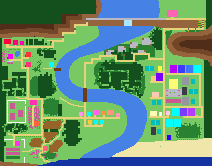
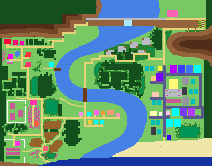
Add very tall grass, green plateaus and Valecrown streets
tools/beryl/tileimport.py adds outside metatiles to the four Kaldria
tilesets at shared ids: Emerald's long grass and Saffron's cobbles so far.
The first mountain level is now a grass plateau with a cliff rim, and
Valecrown's paths are streets. Two new paint colours: very tall grass and
city street.

Claude-Session: https://claude.ai/code/session_01CPXAVraXNv8NZzXt3sV7iL

diff --git a/tools/beryl/tileimport.py b/tools/beryl/tileimport.py
@@ -1,0 +1,136 @@
+"""Add outside metatiles (Emerald, other Kanto towns, Team Aqua's asset repo) to Kaldria's tilesets.
+
+    python3 tools/beryl/tileimport.py
+
+Every Kaldria tileset gets the same imported metatiles at the same ids, starting at IMPORT_BASE, so the
+map generator can use them in any town. Each import is drawn from its source, then its 8x8 tiles are
+recoloured onto the FireRed primary palettes (or onto a palette slot the tileset has free) and appended
+to the tileset's tiles. The tileset's own metatiles and tiles stay as they are: the tool cuts the tileset
+back to its original size first, so running it again gives the same result.
+"""
+import os, struct, sys
+from PIL import Image
+
+sys.path.insert(0, os.path.dirname(__file__))
+import render  # noqa: E402
+
+ROOT = render.ROOT
+PRIMARY = 'gTileset_General_Frlg'
+NPRI_TILES, NPRI_METAS, NPRI_PALS = 640, 640, 7
+MAX_SEC_TILES = 1024 - NPRI_TILES
+IMPORT_SLOT = 256                      # secondary metatile index of the first import
+IMPORT_BASE = NPRI_METAS + IMPORT_SLOT  # its metatile id (0x380)
+
+# Kaldria's outdoor tilesets: directory, original metatile count, original tile count, free palette slot
+TILESETS = {
+    'gTileset_Stillbrook': ('data/tilesets/secondary/stillbrook', 89, 80, None),
+    'gTileset_LavenderTown': ('data/tilesets/secondary/lavender_town_frlg', 218, 256, None),
+    'gTileset_VermilionCity': ('data/tilesets/secondary/vermilion_city_frlg', 168, 144, None),
+    'gTileset_CeladonCity': ('data/tilesets/secondary/celadon_city_frlg', 240, 256, 7),
+}
+
+# FireRed metatile attributes: behaviour (bits 0-8), terrain (9-13), encounter type (24-26), layer (29-30)
+LONG_GRASS_ATTR = 0x03 | (1 << 9) | (1 << 24)
+NORMAL_ATTR = 0
+
+# name: (source primary, source secondary, source metatile id, attributes, palette to borrow for the free slot)
+IMPORTS = [
+    ('long_grass', 'gTileset_General', 'gTileset_Fortree', 0x015, LONG_GRASS_ATTR, None),
+    ('street', PRIMARY, 'gTileset_SaffronCity', 0x2E9, NORMAL_ATTR, ('gTileset_SaffronCity', 10)),
+    ('street_light', PRIMARY, 'gTileset_SaffronCity', 0x2EC, NORMAL_ATTR, ('gTileset_SaffronCity', 10)),
+]
+IDS = {name: IMPORT_BASE + i for i, (name, *_) in enumerate(IMPORTS)}
+
+
+def write_pal(path, cols):
+    cols = list(cols) + [(0, 0, 0)] * (16 - len(cols))
+    open(path, 'w', newline='\r\n').write('JASC-PAL\n0100\n16\n' + ''.join(f'{r} {g} {b}\n' for r, g, b in cols))
+
+
+def nearest(c, pal):
+    """Index 1-15 of the colour in pal closest to c, and the squared error."""
+    best, err = 1, 1 << 30
+    for i in range(1, 16):
+        p = pal[i]
+        e = (p[0] - c[0]) ** 2 + (p[1] - c[1]) ** 2 + (p[2] - c[2]) ** 2
+        if e < err:
+            best, err = i, e
+    return best, err
+
+
+def quantize(px, pals):
+    """8x8 RGB pixels -> (palette number, 64 indices) using the palette that fits best."""
+    best = None
+    for n, pal in pals.items():
+        idx, total = [], 0
+        for c in px:
+            i, e = nearest(c, pal)
+            idx.append(i)
+            total += e
+        if best is None or total < best[0]:
+            best = (total, n, idx)
+    return best[1], best[2]
+
+
+def build(name):
+    d, nmeta, ntile, free = TILESETS[name]
+    d = os.path.join(ROOT, d)
+    ppals = render.load_tileset(PRIMARY)[1][:NPRI_PALS]
+    spal_paths = [os.path.join(d, 'palettes', f'{i:02}.pal') for i in range(16)]
+    spals = [render.read_pal(p) for p in spal_paths]
+    pals = {n: ppals[n] for n in range(NPRI_PALS)}
+    # the free palette slot takes the colours the imports need, borrowed whole from their source
+    borrowed = {src for *_, src in IMPORTS if src}
+    assert len(borrowed) <= 1, 'one borrowed palette per tileset for now'
+    if free is not None and borrowed:
+        src_set, src_pal = borrowed.pop()
+        cols = render.load_tileset(src_set)[1][src_pal]
+        write_pal(spal_paths[free], cols)
+        pals[free] = cols
+
+    img = Image.open(os.path.join(d, 'tiles.png'))
+    w = img.width
+    flat = list(img.getdata())
+    tiles = [[flat[((t // (w // 8)) * 8 + y) * w + (t % (w // 8)) * 8 + x] % 16 for y in range(8) for x in range(8)]
+             for t in range(ntile)]
+    raw = open(os.path.join(d, 'metatiles.bin'), 'rb').read()[:nmeta * 16]
+    attrs = open(os.path.join(d, 'metatile_attributes.bin'), 'rb').read()[:nmeta * 4]
+    raw += b'\0' * 16 * (IMPORT_SLOT - nmeta)
+    attrs += b'\0' * 4 * (IMPORT_SLOT - nmeta)
+    seen = {}
+    for iname, sp, ss, mid, attr, borrow in IMPORTS:
+        im = render.metatile_image(sp, ss, mid).convert('RGB')
+        use = {n: p for n, p in pals.items() if borrow is None or n == free} if (borrow and free is not None) else \
+            {n: p for n, p in pals.items() if n < NPRI_PALS}
+        entries = []
+        for q in range(4):
+            ox, oy = q % 2 * 8, q // 2 * 8
+            px = [im.getpixel((ox + x, oy + y)) for y in range(8) for x in range(8)]
+            pal, idx = quantize(px, use)
+            key = tuple(idx)
+            if key not in seen:
+                seen[key] = len(tiles)
+                tiles.append(idx)
+            entries.append((NPRI_TILES + seen[key]) | (pal << 12))
+        raw += struct.pack('<8H', *entries, 0, 0, 0, 0)
+        attrs += struct.pack('<I', attr)
+    assert len(tiles) <= MAX_SEC_TILES, f'{name}: {len(tiles)} tiles, the limit is {MAX_SEC_TILES}'
+    rows = (len(tiles) + 15) // 16
+    out = Image.new('P', (128, rows * 8))
+    out.putpalette(img.getpalette())
+    data = [0] * (128 * rows * 8)
+    for t, tile in enumerate(tiles):
+        tx, ty = t % 16, t // 16
+        for y in range(8):
+            for x in range(8):
+                data[(ty * 8 + y) * 128 + tx * 8 + x] = tile[y * 8 + x]
+    out.putdata(data)
+    out.save(os.path.join(d, 'tiles.png'))
+    open(os.path.join(d, 'metatiles.bin'), 'wb').write(raw)
+    open(os.path.join(d, 'metatile_attributes.bin'), 'wb').write(attrs)
+    return len(tiles) - ntile
+
+
+if __name__ == '__main__':
+    for n in TILESETS:
+        print(f'{n}: {len(IMPORTS)} metatiles, {build(n)} new tiles')

diff --git a/tools/beryl/mapgen.py b/tools/beryl/mapgen.py
@@ -125,8 +125,17 @@ def learned():
     return out, bitmode
 
 
+@lru_cache(None)
+def sandy_rocks():
+    """Cliff pieces drawn over sand: Kaldria's cliffs stand on grass, so these are left out."""
+    metas = render.load_tileset(PRIMARY)[2]
+    return frozenset(m for m in ROCK_IDS if any(v >> 12 == 5 for v in metas[m][:4]))
+
+
 def autotile(cls, mask, fallback):
     table = learned()[0][cls]
+    if cls == 'rock':
+        table = {m: v for m, v in table.items() if v not in sandy_rocks()}
     if mask in table:
         return table[mask]
     # nearest known mask by differing bits, preferring the orthogonal ones
@@ -207,6 +216,12 @@ TREE_END, TREE_END_OPEN = (0x024, 0x025), (0x026, 0x027)
 CANOPY, CANOPY_TALL = (0x00E, 0x00F), (0x00B, 0x00C)
 
 
+# metatiles tools/beryl/tileimport.py adds to every Kaldria tileset, at the same ids
+from tileimport import IDS as IMPORTED  # noqa: E402
+# imports that look the same in every tileset, so they may show across a map edge
+SHARED_IMPORTS = {IMPORTED['long_grass']}
+
+
 def grass(x, y):
     return GRASS4[y & 1][x & 1]
 
@@ -229,9 +244,18 @@ class MapArt:
             return self.chars[y][x]
         return None
 
+    def green_tops(self):
+        """The first mountain level is a grass plateau: only its rim stays cliff, the inside becomes grass."""
+        rock = ('^', 'M', 'N', 'C', 'S', 'W')
+        inner = [(x, y) for y in range(self.h) for x in range(self.w) if self.chars[y][x] == '^' and
+                 all(self.c(x + dx, y + dy) in rock + (None,) for dx, dy in N8)]
+        for x, y in inner:
+            self.chars[y][x] = '.'
+
     def build(self):
         w, h = self.w, self.h
         bits = learned()[1]
+        self.green_tops()
         out = [blk(grass(i % w, i // w)) for i in range(w * h)]
         put = lambda x, y, v: out.__setitem__(y * w + x, v)
         # plain ground
@@ -246,13 +270,17 @@ class MapArt:
                     put(x, y, blk(SIGN, 1, 0))
                 elif ch == 'b':
                     put(x, y, blk(SAND))
+                elif ch == 'V':
+                    put(x, y, blk(IMPORTED['long_grass']))
+                elif ch == 'K':
+                    put(x, y, blk(IMPORTED['street']))
         # trees on the 2x2 grid; out-of-map counts as forest
         def tree(cx, cy):
             if cx < 0 or cy < 0 or cx * 2 >= w or cy * 2 >= h:
                 return True
             cell = [self.c(cx * 2 + i, cy * 2 + j) for i in range(2) for j in range(2)]
             # a tree needs its whole 2x2 cell: a path, cliff, water or the like in it wins
-            return 'T' in cell and all(ch in (None, 'T', '.', ',', '*') for ch in cell)
+            return 'T' in cell and all(ch in (None, 'T', '.', ',', '*', 'V') for ch in cell)
         for cy in range((h + 1) // 2):
             for cx in range((w + 1) // 2):
                 if not (cx * 2 < w and cy * 2 < h and tree(cx, cy)):

diff --git a/tools/beryl/canvas.py b/tools/beryl/canvas.py
@@ -120,7 +120,7 @@ class Canvas(Grid):
         for dx, dy in ((0, -1), (0, 1), (-1, 0), (1, 0)):
             v = self.get(x + dx, y + dy)
             if v is not None and v not in member:
-                return v if v in '.,*=bp:' else '.'
+                return v if v in '.,*=bp:VK' else '.'
         return '.'
 
     # ---------------------------------------------------------------- buildings
@@ -210,7 +210,7 @@ class Canvas(Grid):
                     if src is None:
                         if inside and self.g[y][x] != 'T':
                             bare.append((x, y))
-                    elif (b[y * self.w + x] & 0x3FF) >= NPRI and src.secondary != r.secondary and \
+                    elif (b[y * self.w + x] & 0x3FF) >= NPRI and (b[y * self.w + x] & 0x3FF) not in mapgen.SHARED_IMPORTS and src.secondary != r.secondary and \
                             mapgen.SAME_TILES.get(src.secondary, src.secondary) != mapgen.SAME_TILES.get(r.secondary, r.secondary):
                         wrong.append((x, y))
             if wrong:

diff --git a/tools/beryl/paint.py b/tools/beryl/paint.py
@@ -20,6 +20,7 @@ KEY = os.path.join(HERE, 'kaldria_south_key.json')
 COLOURS = {
     '.': ((120, 200, 100), 'grass'),
     ',': ((40, 130, 50), 'tall grass (wild POKéMON)'),
+    'V': ((0, 150, 90), 'very tall grass (wild POKéMON, you wade through it)'),
     '*': ((200, 90, 150), 'flowers'),
     'T': ((20, 80, 30), 'trees'),
     '^': ((150, 100, 60), 'mountain / cliff, level 1'),
@@ -29,6 +30,7 @@ COLOURS = {
     '≈': ((20, 50, 160), 'sea water'),
     '=': ((230, 210, 120), 'path'),
     'p': ((185, 185, 195), 'paving'),
+    'K': ((90, 90, 140), 'city street (Valecrown)'),
     'b': ((240, 230, 170), 'sand'),
     ':': ((150, 100, 40), 'tilled soil'),
     'C': ((30, 20, 20), 'cave entrance (in a cliff)'),
@@ -334,7 +336,7 @@ def check_people(c, towns):
                 taken.add((wx, wy))
 
 
-WALK = '.,*=pb:'
+WALK = '.,*=pb:VK'
 
 
 def free_spot(c, t, x, y, inside, taken):

diff --git a/docs/beryl/ASSETS.md b/docs/beryl/ASSETS.md
@@ -11,5 +11,18 @@ actually use get copied into the game, each with its credit added to the list be
 Most of its tilesets are in the Emerald format (16-bit metatile attributes, 512-metatile primary), so they
 need converting before they work with the FireRed layouts used by Kaldria.
 
+### How outside tiles get into the game
+`tools/beryl/tileimport.py` adds metatiles from other tilesets to all four Kaldria outdoor tilesets
+(Stillbrook, Lavender, Vermilion, Celadon), at the same ids from 0x380 on. Each import is drawn from its
+source, recoloured onto FireRed's primary palettes (or onto a palette slot the tileset has free), and its
+tiles are appended. Add an entry to `IMPORTS` and run the script; it rebuilds the tilesets from their
+original size each time. The limits are 384 tiles per tileset (Lavender has the least room, about 120
+tiles left) and one free palette slot (only Celadon has one).
+A Team Aqua tileset is imported the same way once it is registered so the script can draw it.
+
+Imported so far, all from tilesets already in the decomp:
+* very tall grass: Emerald's long grass (General tileset, metatile 0x015)
+* city street: Saffron City's cobbles (metatiles 0x2E9 and 0x2EC, with Saffron's palette in Celadon's free slot)
+
 ### Used in Beryl
 (none yet)

diff --git a/docs/beryl/PAINTING.md b/docs/beryl/PAINTING.md
@@ -12,6 +12,12 @@
 * Small houses: paint a block in the small-house colour (RGB 0 190 190). In Valecrown that is a 4x5 apartment you can enter; elsewhere it is the town's normal house.
 * City buildings you cannot enter (Valecrown only): RGB 60 60 70 for a 5x8 tall block, RGB 150 150 160 for a 7x8 wide block.
 * Mailboxes, fences, picket fences, bridges and bushes are painted too.
+* Mountains: level 1 (RGB 150 100 60) is a grass plateau. Only its rim is drawn as a cliff and the inside is
+  grass, so a 1-pixel ring of level 1 around any area raises it. Levels 2 and 3 are rocky mountains on top.
+  Stairs (RGB 100 100 100) lead up through a rim.
+* Very tall grass (RGB 0 150 90): Emerald's long grass. You wade through it and wild POKéMON live in it.
+* City street (RGB 90 90 140): Saffron's cobbles, for Valecrown. Keep streets 8 tiles away from Valecrown's
+  map edges, since neighbouring maps cannot draw them; out there they turn back into paths.
 * People, signs and what happens inside buildings stay in `tools/beryl/world.py`; after a repaint
   the script lists anyone left standing in a tree, a cliff, water or a building.
 * `python3 tools/beryl/world.py --export-paint DIR` writes a fresh template, key and guide.
